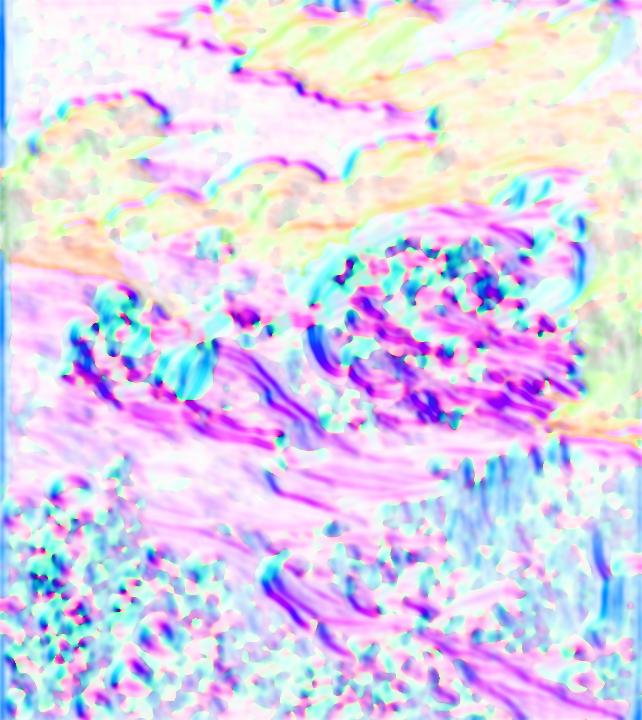
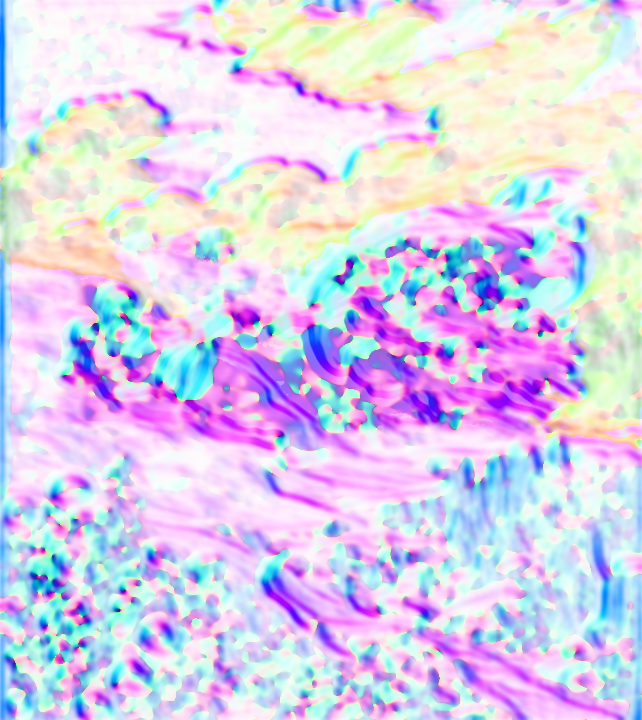
Solid figures: no hill or sky strokes across Adam's limbs
The day's flow maps now carry the figure mask (tools/flow.py, 4th arg):
figures always get a mid-to-fine brush and the air around them a medium
one, so big free strokes from the hill and sky can no longer lie across
Adam's knees and make them look transparent.

diff --git a/public/main.js b/public/main.js
@@ -45,8 +45,8 @@ const load = src => new Promise((res, rej) => { const i = new Image(); i.onload 
 // each picture is one painting grown past Michelangelo's frame; wide and tall screens are cut from it around its focus
 const shape = innerWidth / innerHeight >= .8 ? 'wide' : 'tall';
 if (!gl) { root.classList.add('no-gl'); ready(); }
-else fetch('/img/scene.json?v=1791884245').then(r => r.json()).then(meta =>
-  Promise.all([shape === 'wide' ? 'night-wide' : 'night', shape === 'wide' ? 'night-wide-flow' : 'night-flow', shape === 'wide' ? 'day' : 'day-tall', shape === 'wide' ? 'day-flow' : 'day-tall-flow', shape === 'wide' ? 'supper' : 'supper-tall', shape === 'wide' ? 'supper-flow' : 'supper-tall-flow'].map(n => load(`/img/${n}.webp?v=1791884245`)))
+else fetch('/img/scene.json?v=1791885044').then(r => r.json()).then(meta =>
+  Promise.all([shape === 'wide' ? 'night-wide' : 'night', shape === 'wide' ? 'night-wide-flow' : 'night-flow', shape === 'wide' ? 'day' : 'day-tall', shape === 'wide' ? 'day-flow' : 'day-tall-flow', shape === 'wide' ? 'supper' : 'supper-tall', shape === 'wide' ? 'supper-flow' : 'supper-tall-flow'].map(n => load(`/img/${n}.webp?v=1791885044`)))
     .then(ims => paint(gl, ims, meta[shape])))
   .catch(e => { console.error(String(e && e.message || e)); root.classList.add('no-gl'); ready(); });   // log, then fall back
 

diff --git a/public/index.html b/public/index.html
@@ -19,7 +19,7 @@
 <link rel="preconnect" href="https://fonts.googleapis.com">
 <link rel="preconnect" href="https://fonts.gstatic.com" crossorigin>
 <link rel="stylesheet" href="https://fonts.googleapis.com/css2?family=Cinzel:wght@400;500&family=Cormorant+Garamond:ital,wght@0,300;0,400;1,300;1,400&display=swap">
-<link rel="stylesheet" href="/style.css?v=1791884245">
+<link rel="stylesheet" href="/style.css?v=1791885044">
 <script>document.documentElement.classList.add('js')</script>
 </head>
 <body>
@@ -84,6 +84,6 @@
 
 
 <noscript><style>.reveal,.reveal-words,.display .line>span{opacity:1!important;transform:none!important}</style></noscript>
-<script type="module" src="/main.js?v=1791884245"></script>
+<script type="module" src="/main.js?v=1791885044"></script>
 </body>
 </html>

diff --git a/tools/flow.py b/tools/flow.py
@@ -1,13 +1,13 @@
 # Prepares a fresco for the brush engine: a web copy of the picture, and a "flow" map that tells
 # each brushstroke which way to travel (along Michelangelo's forms) and how small a brush to use.
-# usage: python3 tools/flow.py <src.jpg> <name> <max width>
+# usage: python3 tools/flow.py <src.jpg> <name> <max width> [figure mask]
 #   -> public/img/<name>.webp   (the picture)
 #   -> public/img/<name>-flow.webp  R,G = cos/sin of twice the stroke angle, B = coherence (>.5) or plaster (<.5), A = detail
 # Sources (public domain, Wikimedia Commons): Michelangelo, "The Creation of the Sun and Moon" (cropped to God, the sun and the moon) and
 # "The Creation of Adam" (Sistine Chapel ceiling, 1508-12).
 import sys
 import numpy as np
-from PIL import Image
+from PIL import Image, ImageFilter
 
 src, name, maxw = sys.argv[1], sys.argv[2], int(sys.argv[3])
 im = Image.open(src).convert('RGB')
@@ -56,6 +56,14 @@ plaster = np.clip(blur(bgm.astype(np.float32), 2.0) * 1.3 - .15, 0, 1)
 print('plaster', round(float(plaster.mean()), 2))
 # B: coherence in the upper half, plaster in the lower (B < .5 means plaster, by how much)
 B = np.where(plaster > .5, .5 - .5 * plaster, .5 + .5 * coh)
+# optional figure mask (white = figure): figures are never painted with a big free brush, and the air just
+# around them gets a medium brush too, so no sky or hill stroke can lie across a limb and make it look transparent
+if len(sys.argv) > 4:
+    fm = Image.open(sys.argv[4]).convert('L').resize(small.size, Image.BILINEAR)
+    f = np.asarray(fm, np.float32) / 255
+    near = np.asarray(fm.filter(ImageFilter.MaxFilter(9)).filter(ImageFilter.GaussianBlur(3)), np.float32) / 255
+    detail = np.maximum(detail, np.maximum(f * .62, near * .42))
+    B = np.where(f > .5, np.maximum(B, .5), B)            # a figure is never plaster
 out = np.stack([np.cos(2 * theta) * .5 + .5, np.sin(2 * theta) * .5 + .5, B, detail], 2)
 Image.fromarray((np.clip(out, 0, 1) * 255).astype(np.uint8)).save(f'public/img/{name}-flow.webp', lossless=True, quality=100, method=6, exact=True)
 print(name, im.size, 'flow', small.size)
